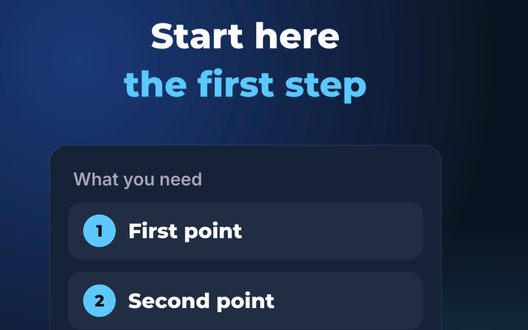
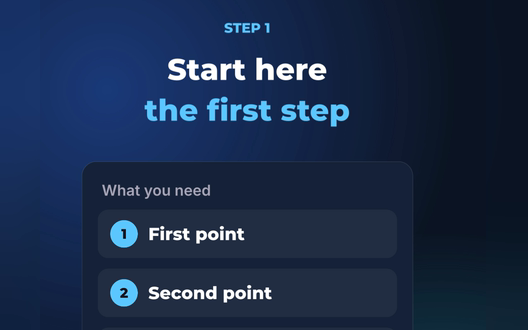
Template pictures: room above the headline, the card's figure whole
The picture is a taller band of the frame (headline and the card's main figure)
on a blurred fill, where the old crop put the headline against the top edge.
The labels under a picture sit a little in from its edge.

diff --git a/apps/studio/src/picker.rs b/apps/studio/src/picker.rs
@@ -1045,8 +1045,9 @@ fn template_card(ui: &mut Ui, t: &sf_services::templates::Template, picture: Opt
         mesh.add_rect_with_uv(thumb, egui::Rect::from_min_max(pos2(0.0, 0.0), pos2(1.0, 1.0)), Color32::WHITE);
         p.add(egui::Shape::mesh(mesh));
         p.rect_stroke(thumb, 8.0, Stroke::new(3.0, theme::p().glass_solid), egui::StrokeKind::Outside);
-        p.text(pos2(rect.left(), thumb.bottom() + 8.0), Align2::LEFT_TOP, t.label, FontId::proportional(13.0), theme::p().text);
-        p.text(pos2(rect.left(), rect.bottom() - 6.0), Align2::LEFT_BOTTOM, "No recording needed", FontId::proportional(11.0), theme::p().text_dim);
+        // the words sit a little in from the picture's edge, with air between the two lines
+        p.text(pos2(rect.left() + 2.0, thumb.bottom() + 9.0), Align2::LEFT_TOP, t.label, FontId::proportional(13.0), theme::p().text);
+        p.text(pos2(rect.left() + 2.0, rect.bottom() - 4.0), Align2::LEFT_BOTTOM, "No recording needed", FontId::proportional(11.0), theme::p().text_dim);
         return resp.on_hover_text(t.about);
     }
     let art = p.with_clip_rect(thumb);
